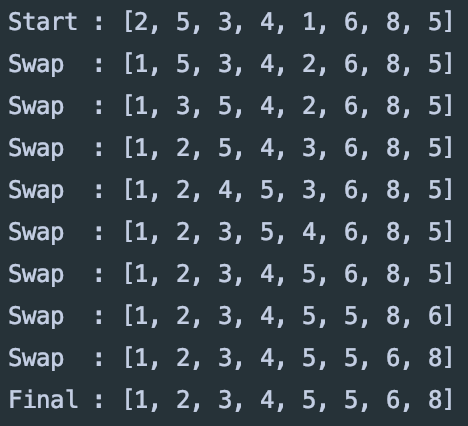
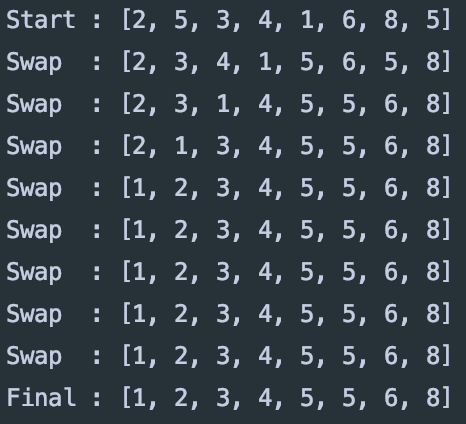
정렬알고리즘 수정

diff --git a/_posts/2019-05-29-정렬 알고리즘.md b/_posts/2019-05-29-정렬 알고리즘.md
@@ -21,8 +21,8 @@ tags:
 ~~~java
 public void BubbleSort(int[] num) {
     for (int i = 0; i < num.length; i++) {
-        for (int j = i + 1; j < num.length; j++) {
-            if (num[i] > num[j]) swap(i, j, num);
+        for (int j = 1; j < num.length - i; j++) {
+            if (num[j] < num[j - 1]) swap(j - 1, j, num);
         }
     }
 }
@@ -136,16 +136,16 @@ public void QuickSort(int left, int right, int[] num) {
 - right가 배열의 끝에 도달했기 때문에 남은 left를 data에 덮어씌운다.
 
 ~~~java
-public void merge(int start, int end) {
+public void mergeSort(int start, int end) {
     if (start < end) {
         int mid = (start + end) / 2;
-        merge(start, mid);
-        merge(mid + 1, end);
-        mergeSort(start, mid, end);
+        mergeSort(start, mid);
+        mergeSort(mid + 1, end);
+        merge(start, mid, end);
     }
 }
 
-public void mergeSort(int start, int mid, int end) {
+public void merge(int start, int mid, int end) {
     for (int i = start; i <= end; i++) {
         tmp[i] = num[i];    //tmp 배열에 값을 옮긴다.
     }
